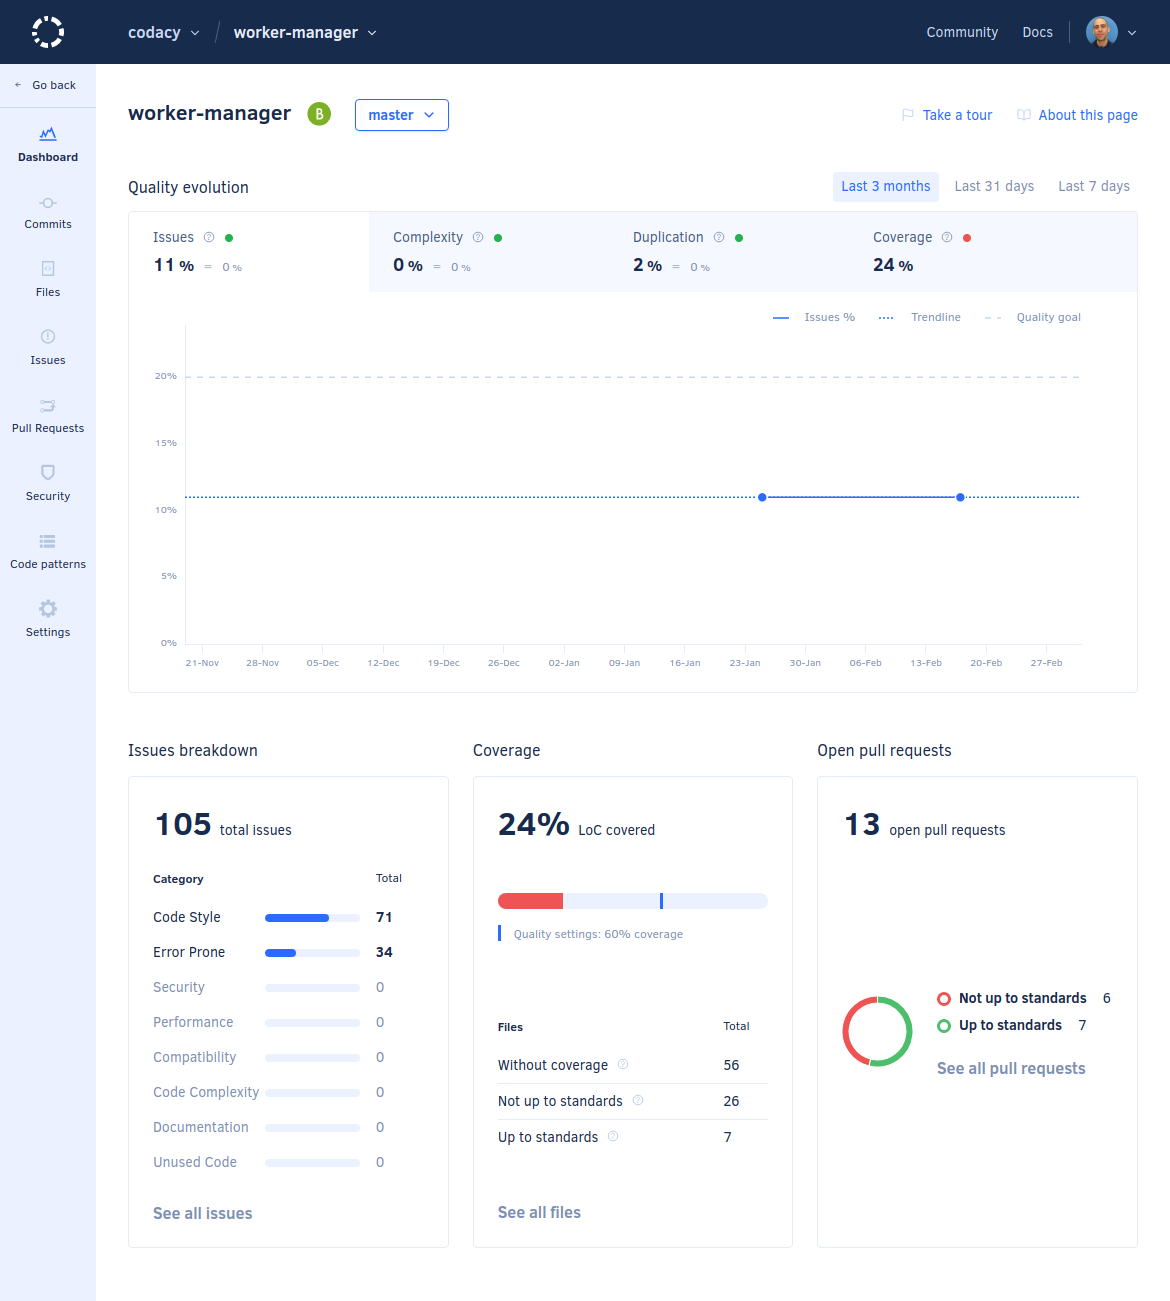
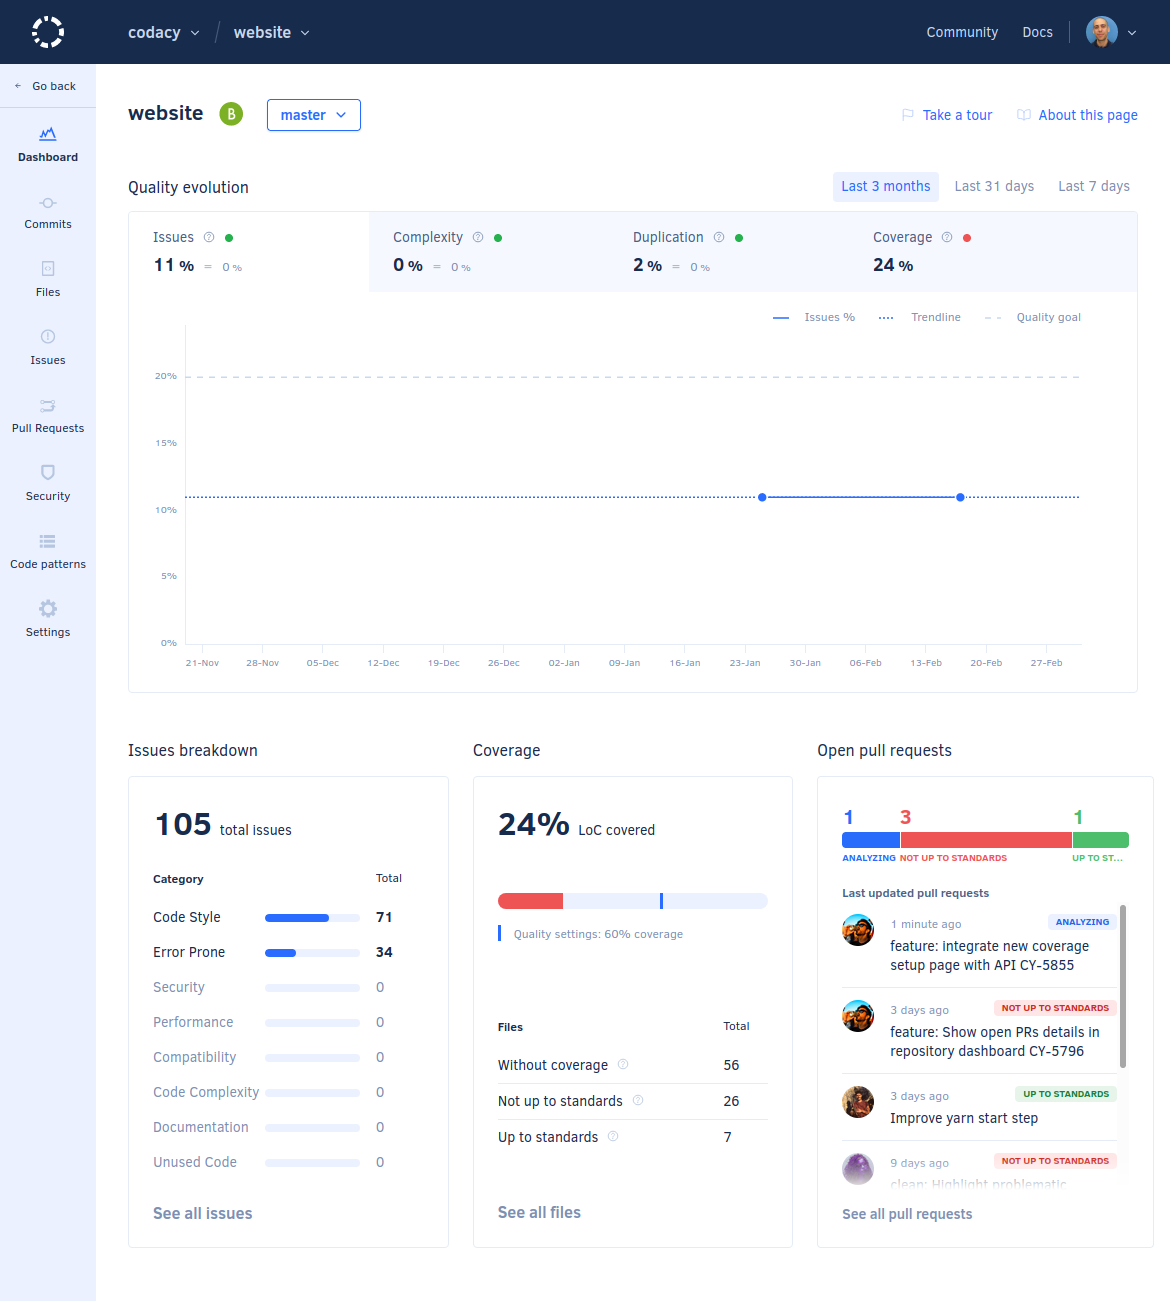
feature: Update and improve Open pull requests area CY-5796 (#1116)
* feature: Update screenshots including the Open pull requests area

* clean: Reorder list of pull request status

* feature: Edit and improve description of Open pull requests area

* clean: Improve description of Open pull requests area

* feature: Mention using the bar segments to filter the open PRs list

* clean: Edit sentence

diff --git a/docs/repositories/repository-dashboard.md b/docs/repositories/repository-dashboard.md
@@ -65,12 +65,14 @@ Click **See all files** to open the [list of files](files.md) in the repository.
 
 ## Open pull requests
 
-The **Open pull requests** area displays the number of open pull requests in the repository and the split between the following status:
+The **Open pull requests** area displays the last updated pull requests and the split between the status of all open pull requests in your repository:
 
--   Not up to standards
--   Up to standards
--   Analyzing (intermediate status while Codacy is analyzing the pull request)
+-   **Up to standards:** Pull requests that meet the minimum quality levels
+-   **Not up to standards:** Pull requests that failed to meet at least one of the [quality gate rules defined for the repository](../repositories-configure/adjusting-quality-settings.md#gates)
+-   **Analyzing:** Pull requests currently being analyzed by Codacy
 
-Click **See all pull requests** to open the list of pull requests in the repository.
+Click a bar segment to display only pull requests with the corresponding status.
+
+To see the details of pull requests, click a pull request from the list or click **See all pull requests** to open the [list of pull requests](pull-requests.md) in the repository.
 
 ![Open pull requests](images/repository-dashboard-open-pull-requests.png)
